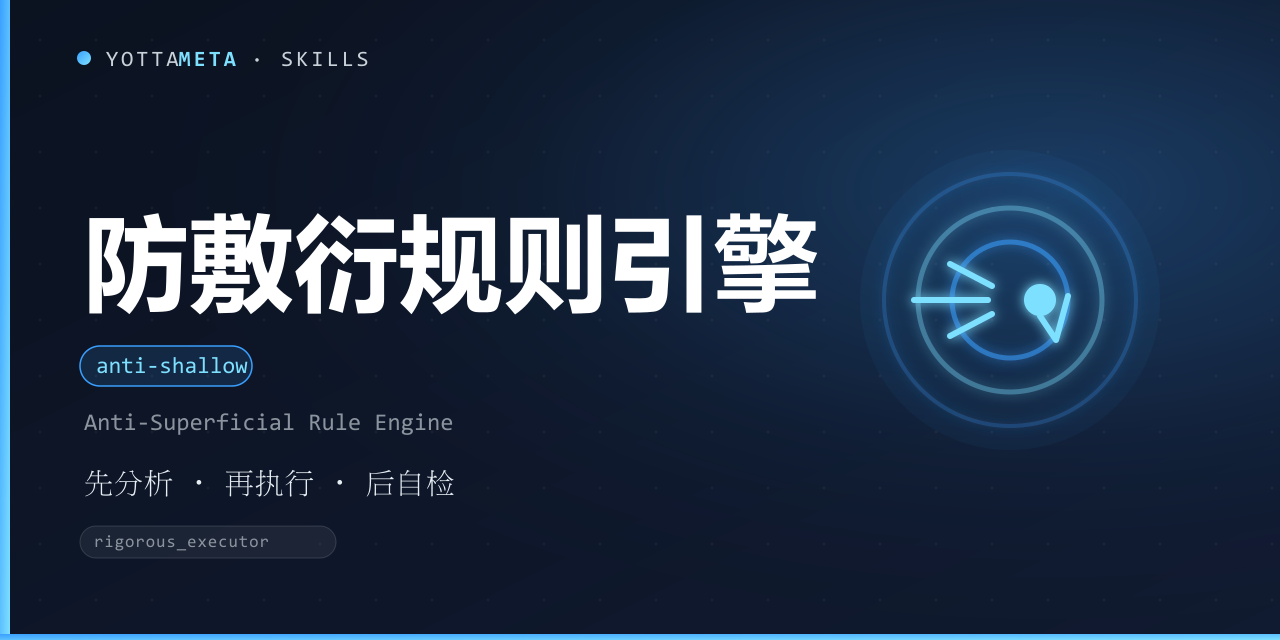
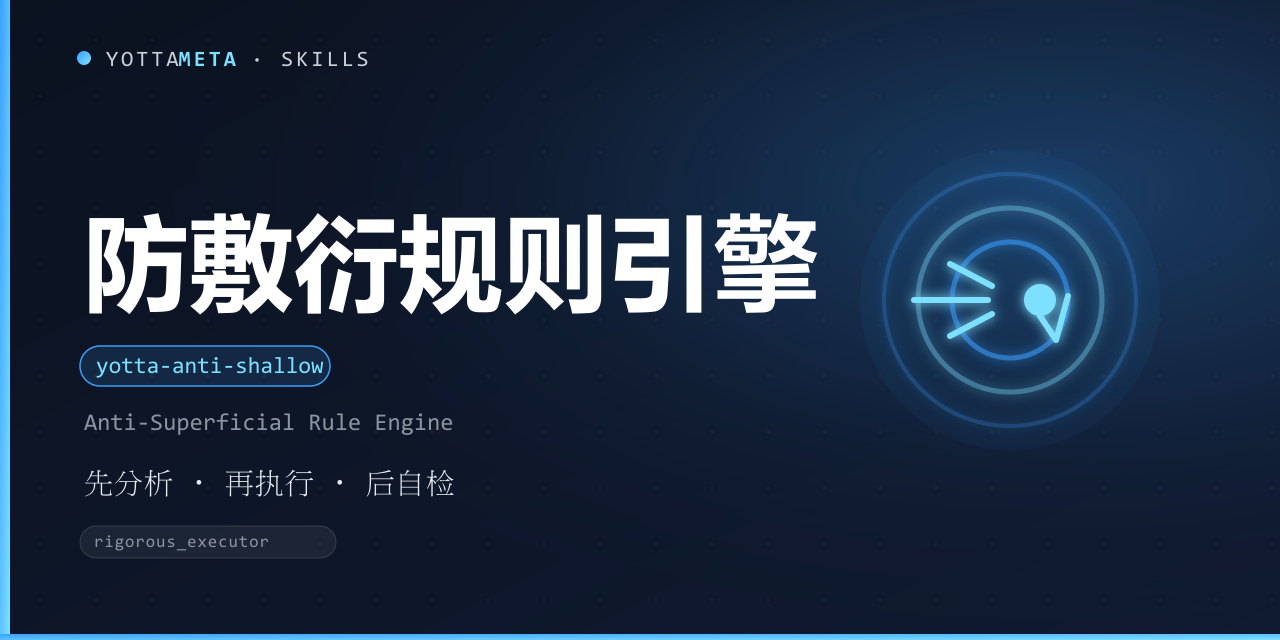
rename to yotta-anti-shallow v1.3.0

Changed region(s): [[0.0625, 0.5312, 0.2812, 0.625]]

diff --git a/bin/install.js b/bin/install.js
@@ -1,19 +1,19 @@
 #!/usr/bin/env node
 /**
- * anti-shallow 跨平台安装器（YottaSkills）
+ * yotta-anti-shallow 跨平台安装器（YottaSkills）
  * 用法:
- *   npx -y @yottameta/anti-shallow --agent <name>  # 按智能体默认用户级目录安装（推荐）
- *   npx -y @yottameta/anti-shallow --dir PATH      # 装到指定目录（用户改了目录的智能体）
- *   npx -y @yottameta/anti-shallow -g              # 安装到全部已知智能体用户级目录
- *   npx -y @yottameta/anti-shallow                 # 安装到检测到的项目级目录
- *   npx -y @yottameta/anti-shallow --list          # 列出智能体 -> 默认目录
+ *   npx -y @yottameta/yotta-anti-shallow --agent <name>  # 按智能体默认用户级目录安装（推荐）
+ *   npx -y @yottameta/yotta-anti-shallow --dir PATH      # 装到指定目录（用户改了目录的智能体）
+ *   npx -y @yottameta/yotta-anti-shallow -g              # 安装到全部已知智能体用户级目录
+ *   npx -y @yottameta/yotta-anti-shallow                 # 安装到检测到的项目级目录
+ *   npx -y @yottameta/yotta-anti-shallow --list          # 列出智能体 -> 默认目录
  */
 'use strict';
 const fs = require('fs');
 const path = require('path');
 const os = require('os');
 
-const SKILL_NAME = 'anti-shallow';
+const SKILL_NAME = 'yotta-anti-shallow';
 const PKG_ROOT = path.join(__dirname, '..');
 
 // 智能体 -> 用户级默认技能目录（dirs 按优先级排列；--agent 装到第一个）

diff --git a/SKILL.md b/SKILL.md
@@ -1,15 +1,15 @@
 ---
-name: anti-shallow
+name: yotta-anti-shallow
 description: "防敷衍规则引擎。当检测到用户需要深入分析、全链路验证、根因追溯、严谨执行、细致检查时激活规则；此外，任何达到 L3（复杂）及以上复杂度的任务也会自动适用本规则，无需用户显式唤醒。触发：防敷衍、敷衍、灌水、糊弄、水货、深入、严谨、细致、仔细、全链路、根因、审视、反思、自我检查、追溯、验证、证明、认真、别糊弄、上规则、不要敷衍、恢复规则、加载防敷衍"
 agent_created: true
-version: 1.2.5
+version: 1.3.0
 license: MIT
 ---
 
 # 防敷衍规则引擎
 
 > 通用防 AI 敷衍规则，适用于所有场景（开发、写作、分析、设计、问答等）。
-> **版本**：1.2.5 | **最后更新**：2026-08-25
+> **版本**：1.3.0 | **最后更新**：2026-08-25
 
 ---
 
@@ -359,6 +359,6 @@ IF 用户显式指令 AND 指令与规则冲突：
 | 1.2.0 | 2026-08-23 | 智能体表扩充：新增国内 Trae / Trae-CN / Qwen / Comate / CodeBuddy / Kimi；修正 Windsurf（~/.codeium/windsurf/skills）与 Kiro（~/.kiro/skills）默认目录；install.sh/install.js 同步；无技能逻辑变更 |
 | 1.2.1 | 2026-08-23 | --list 不再解析/暴露本机 CODEX_HOME / XDG_CONFIG_HOME 路径，改显示通用默认目录；无技能逻辑变更 |
 | 1.2.2 | 2026-08-23 | --list 改为与 README 方式三一致：Windows 用 %USERPROFILE%，Linux/macOS 用 ~，去除 $CODEX_HOME / $XDG_CONFIG_HOME 变量显示；无技能逻辑变更 |
-| 1.2.5 | 2026-08-25 | 规则一致性修复：R007/R008 底线统一为三层（L1 硬底线 F001/F008/R005 永不可关，L2 流程 R001/R003/R004 可关，L3 风格 F002-F007/F009 可关）；R006 L1 含推测仍按 R004 标注置信度；优先级表补 R006-R008 定位；R003 完整版自检 ≤300 字；README 四要素对齐 SKILL（推理路径）并细化介绍；版本历史排序修正 |
+| 1.3.0 | 2026-08-25 | 规则一致性修复：R007/R008 底线统一为三层（L1 硬底线 F001/F008/R005 永不可关，L2 流程 R001/R003/R004 可关，L3 风格 F002-F007/F009 可关）；R006 L1 含推测仍按 R004 标注置信度；优先级表补 R006-R008 定位；R003 完整版自检 ≤300 字；README 四要素对齐 SKILL（推理路径）并细化介绍；版本历史排序修正 |
 | 1.2.4 | 2026-08-24 | README 顶部加 hero banner + 可点击徽章行，标题/副标题居中；无技能逻辑变更 |
 | 1.2.3 | 2026-08-23 | 修复兜底分支：install.sh auto-detect 与 bin/install.js PROJECT_DIRS 从旧 15 项升级为 17 项规范目录（.config/goose/skills、.config/agents/skills、.codeium/windsurf/skills、.trae-cn/skills、.kimi/skills），与 --agent/--list/-g 主路径及 template 一致；无技能逻辑变更 |
